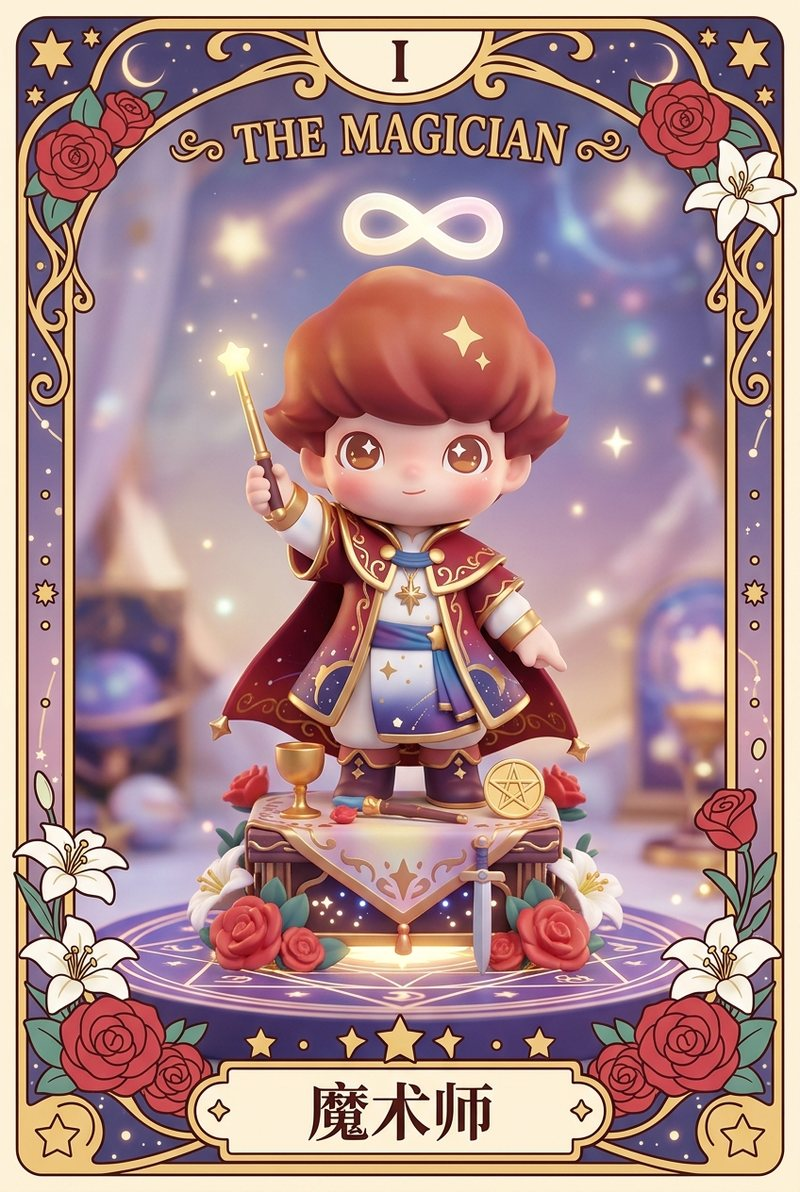
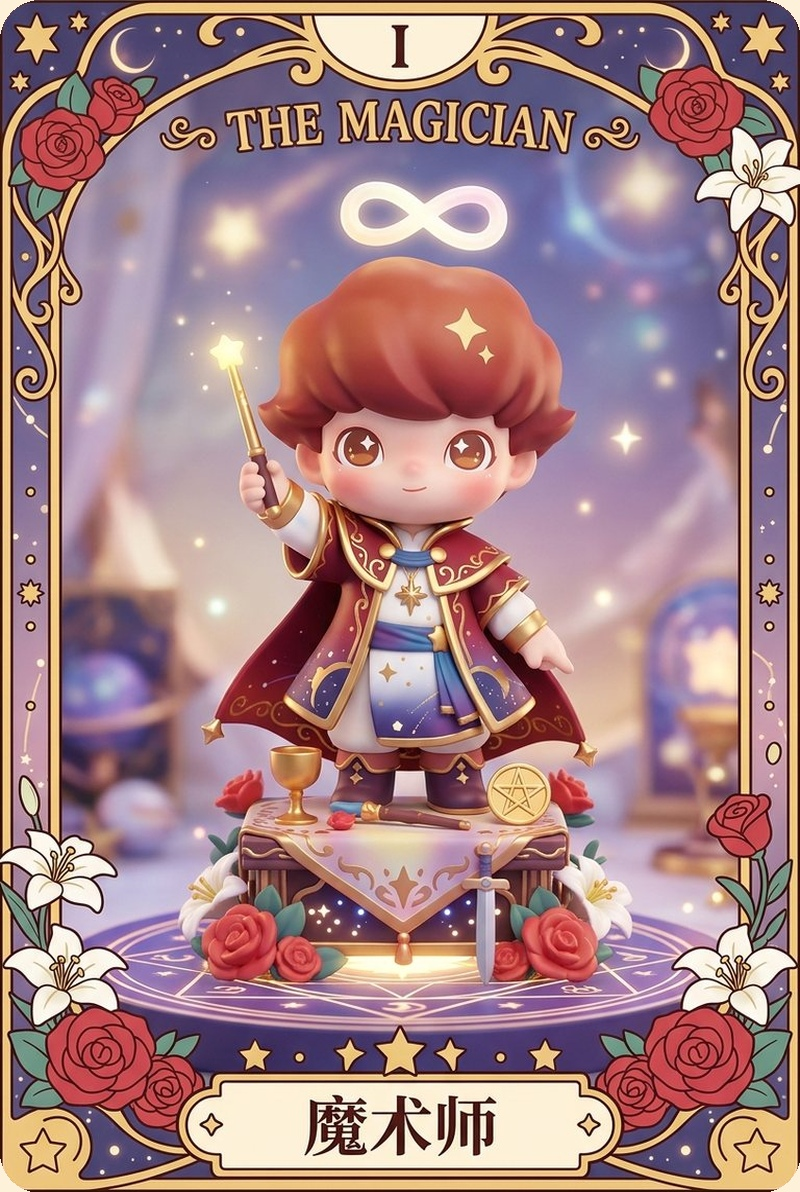
fix(tarot): crop out excess scene backgrounds outside card frames for 17 tarot cards and bump sw to v25

diff --git a/sw.js b/sw.js
@@ -1,5 +1,5 @@
-/* 饮料人格研究所 & 八合一赛博实验矩阵 — 离线瞬开 Service Worker v24 */
-const CACHE_NAME = 'juice-persona-v24';
+/* 饮料人格研究所 & 八合一赛博实验矩阵 — 离线瞬开 Service Worker v25 */
+const CACHE_NAME = 'juice-persona-v25';
 const ASSETS = [
   './',
   './index.html',
